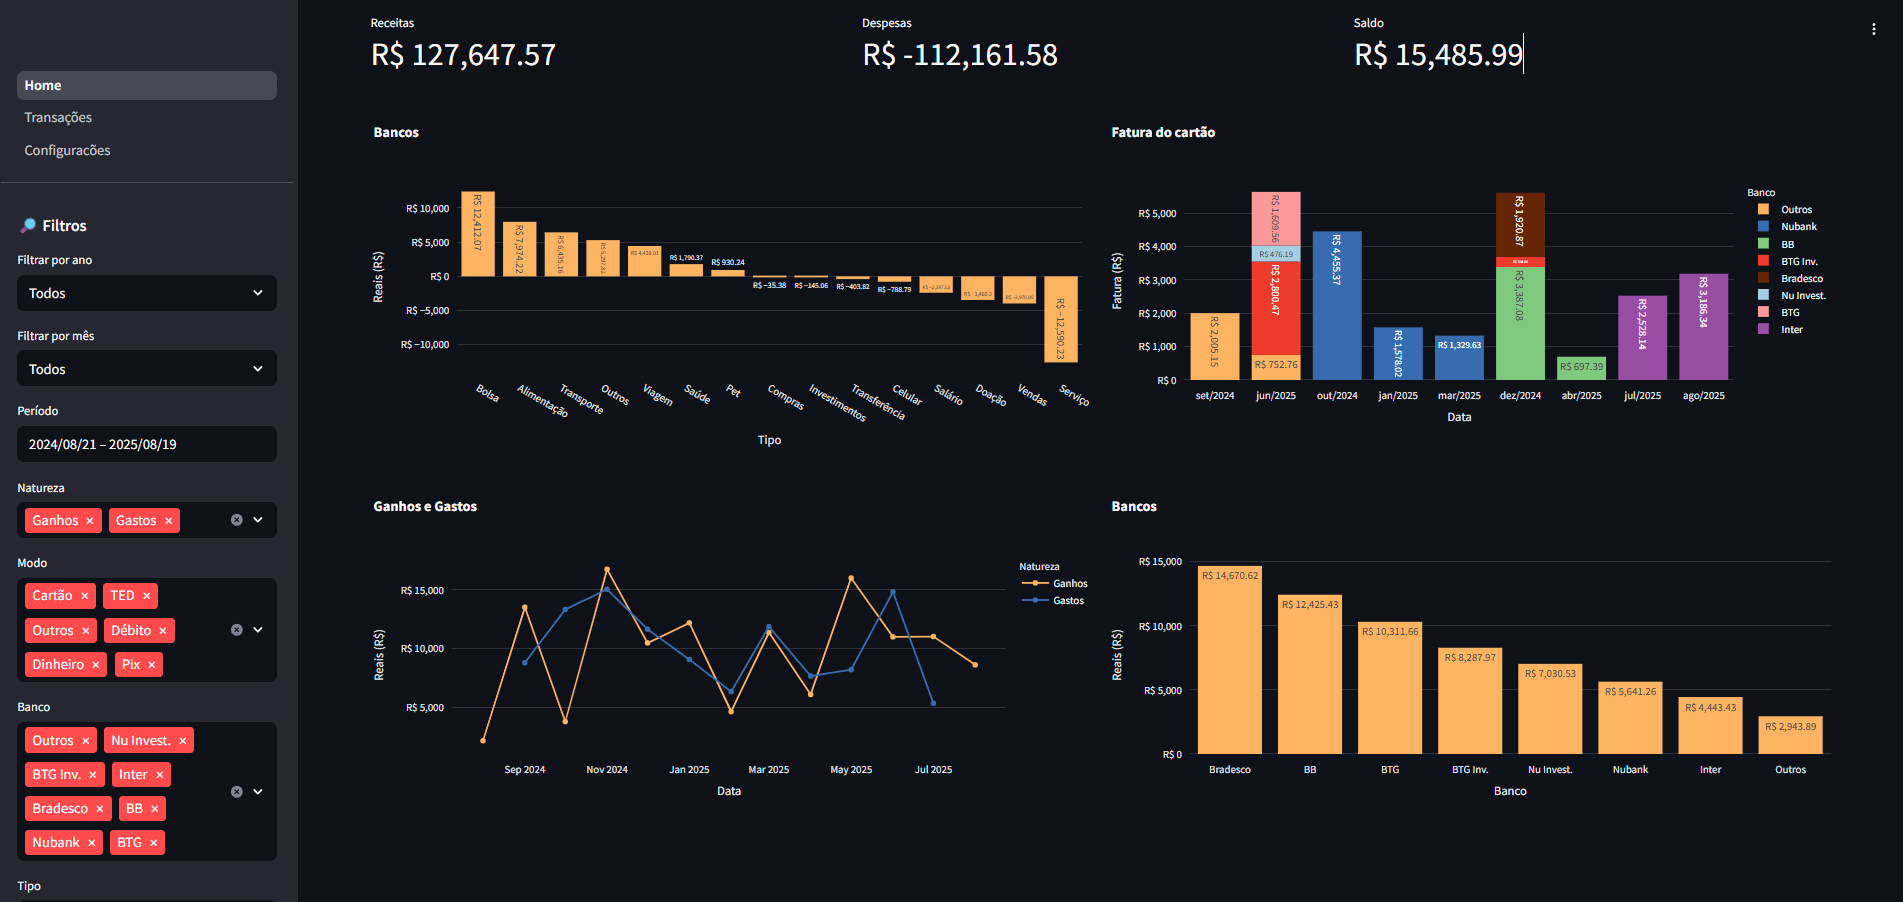
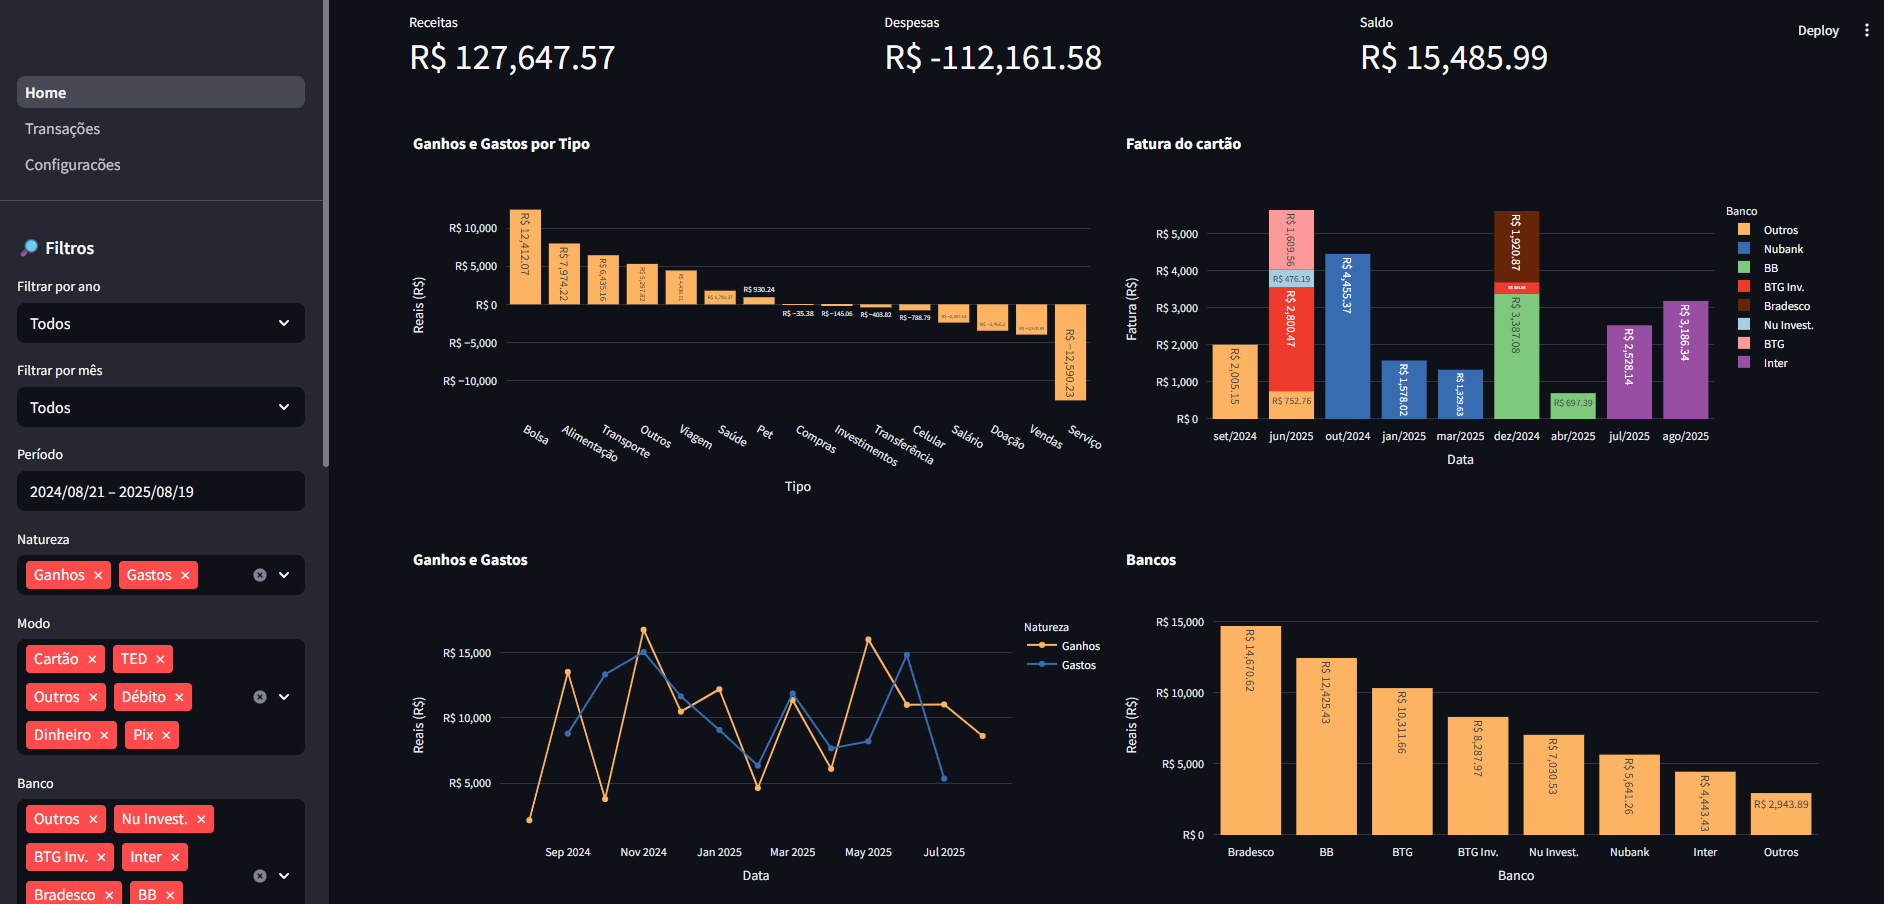
ajuste gráfico
Ajuste no gráfico de tipo de gastos

diff --git a/app/components/charts.py b/app/components/charts.py
@@ -131,7 +131,7 @@ def exibir_ganhos_gastos_tipo(df):
         labels={"valor": "Reais (R$)", "tipo": "Tipo"},
         height=400,
         text_auto=True,
-        title="Bancos",
+        title="Ganhos e Gastos por Tipo",
         color_discrete_sequence=palette,
     )
 
